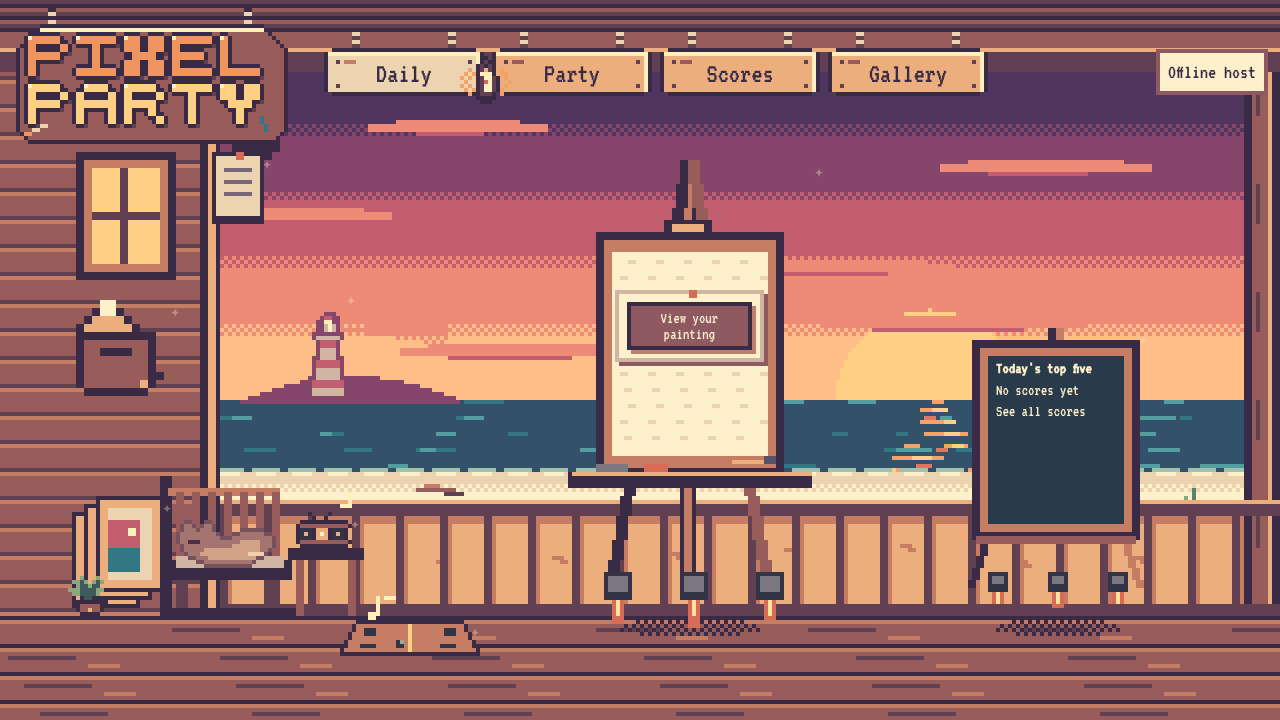
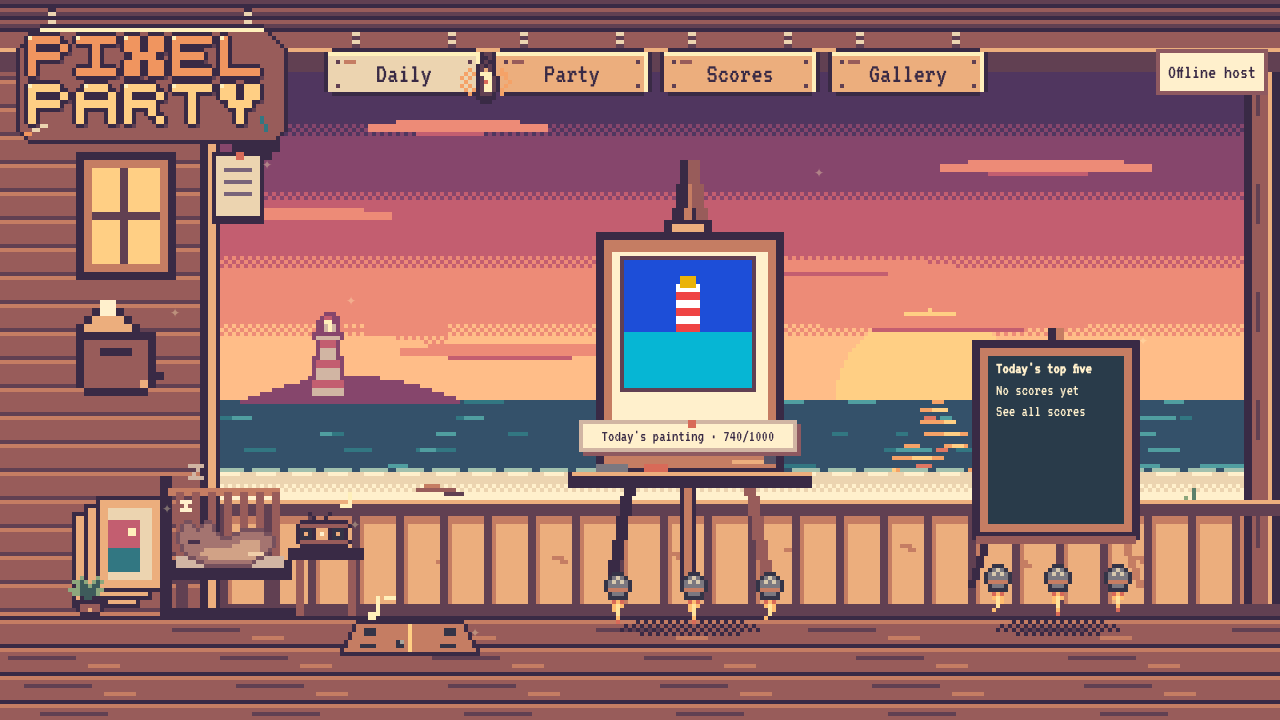
feat(porch): show finished painting on porch easel
Render the player's best-graded 32x32 canvas at pixel scale inside the
porch easel once today's Daily attempt has ended, with a paper tag
showing Today's painting and score, plus offline test coverage.

diff --git a/tests/offline/porch.spec.ts b/tests/offline/porch.spec.ts
@@ -404,6 +404,35 @@ test('capture home 1280', async ({ page }) => {
   await page.screenshot({ path: resolve(dir, 'home-1280x720.png'), fullPage: true })
 })
 
+function samplePaintingBase64() {
+  const cells = new Uint8Array(32 * 32)
+  for (let y = 0; y < 18; y++) for (let x = 0; x < 32; x++) cells[y * 32 + x] = 11
+  for (let y = 18; y < 32; y++) for (let x = 0; x < 32; x++) cells[y * 32 + x] = 9
+  for (let y = 6; y < 18; y++) for (let x = 13; x < 19; x++) cells[y * 32 + x] = y % 4 < 2 ? 4 : 16
+  for (let y = 4; y < 7; y++) for (let x = 14; x < 18; x++) cells[y * 32 + x] = 6
+  return Buffer.from(cells).toString('base64')
+}
+
+test('ended porch easel shows the player painting and score tag, and opens result view', async ({ page }) => {
+  await page.setViewportSize({ width: 1440, height: 900 })
+  await page.emulateMedia({ reducedMotion: 'reduce' })
+  await setup(page)
+  const cells = samplePaintingBase64()
+  await page.route('**/api/daily/me', route => route.fulfill({ json: { day: '2026-11-17', status: 'ended', prompt: 'A lighthouse', startedAt: Date.now() - 600_000, endsAt: Date.now(), autoUsed: 0, asksUsed: 0, asksLeft: 3, finalUsed: true, best: 740, windows: [], nextAutoAt: null, serverNow: Date.now(), lastCells: cells } }))
+  await page.goto(`${origin}/home`)
+  await expect(page.getByTestId('daily-ended')).toBeVisible()
+  await expect(page.getByTestId('porch-easel-tag')).toHaveText("Today's painting · 740/1000")
+  const centerPixel = await page.locator('.pixel-scene__canvas').evaluate((el) => {
+    const ctx = (el as HTMLCanvasElement).getContext('2d')!
+    // Easel at (138, 40), painting at (138 + 18, 40 + 25) = (156, 65), lighthouse tower at (15, 10) -> (171, 75)
+    return Array.from(ctx.getImageData(138 + 18 + 15, 40 + 25 + 10, 1, 1).data)
+  })
+  // Color 4 (#ef4444 = 239,68,68) or 16 (#ffffff = 255,255,255)
+  expect([[239, 68, 68, 255], [255, 255, 255, 255]]).toContainEqual(centerPixel)
+  await page.getByRole('button', { name: 'View result' }).click()
+  await expect(page.getByTestId('pixel-canvas')).toBeVisible()
+})
+
 for (const viewport of [{ width: 1440, height: 900 }, { width: 1280, height: 720 }, { width: 375, height: 812 }]) {
   for (const state of ['landing', 'signed-out', 'not-started', 'ended'] as const) {
     test(`capture porch ${state} ${viewport.width}`, async ({ page }) => {
@@ -411,7 +440,7 @@ for (const viewport of [{ width: 1440, height: 900 }, { width: 1280, height: 720
       await page.setViewportSize(viewport)
       await page.emulateMedia({ reducedMotion: 'reduce' })
       await setup(page, state === 'signed-out')
-      if (state === 'ended') await page.route('**/api/daily/me', route => route.fulfill({ json: { day: '2026-11-17', status: 'ended', autoUsed: 0, asksUsed: 0, asksLeft: 3, finalUsed: true, best: 740, windows: [], nextAutoAt: null, serverNow: Date.now() } }))
+      if (state === 'ended') await page.route('**/api/daily/me', route => route.fulfill({ json: { day: '2026-11-17', status: 'ended', autoUsed: 0, asksUsed: 0, asksLeft: 3, finalUsed: true, best: 740, windows: [], nextAutoAt: null, serverNow: Date.now(), lastCells: samplePaintingBase64() } }))
       await page.goto(`${origin}${state === 'landing' ? '/' : '/home'}`)
       await expect(page.locator('.pixel-scene__canvas')).toBeVisible()
       if (state === 'not-started') await expect(page.getByTestId('daily-start-button')).toBeVisible()

diff --git a/src/components/porch/PorchScene.tsx b/src/components/porch/PorchScene.tsx
@@ -23,6 +23,7 @@ export interface PorchSceneProps {
   onToggleMute: () => void
   easelTestId?: string
   easelDisabled?: boolean
+  easelCells?: Uint8Array
   landing?: boolean
   easelText?: ReactNode
   children?: ReactNode
@@ -33,7 +34,7 @@ function Objects({ moreOpen, setMoreOpen, onParty, ...props }: PorchSceneProps &
   const rect = porchLayout[composition]
   const [rulesOpen, setRulesOpen] = useState(false)
   return <>
-    <Hotspot rect={rect.easel} label={props.easelLabel} href={props.landing ? '/home' : undefined} onClick={props.landing ? undefined : props.onEasel} testId={props.easelTestId} disabled={props.easelDisabled}><span className="porch-easel-copy">{props.easelText}</span></Hotspot>
+    <Hotspot rect={rect.easel} label={props.easelLabel} href={props.landing ? '/home' : undefined} onClick={props.landing ? undefined : props.onEasel} testId={props.easelTestId} disabled={props.easelDisabled}><span className={props.easelState === 'finished' ? 'porch-easel-copy porch-easel-copy--tag' : 'porch-easel-copy'}>{props.easelText}</span></Hotspot>
     <Hotspot rect={rect.chalkboard} label="Today's scores" href="/scores" />
     <div className="porch-scores" style={rectToPercent(rect.chalkboard, composition)}><strong>Today's top {composition === 'portrait' ? 'three' : 'five'}</strong>{props.topThree.length ? props.topThree.slice(0, composition === 'portrait' ? 3 : 5).map((score, index) => <div className="porch-score-row" key={index}><span>{index + 1}. {score.name}</span><span>{score.score}</span></div>) : <div>No scores yet</div>}{composition === 'landscape' && <div className="porch-score-more">See all scores</div>}</div>
     <Hotspot rect={rect.hatch} label="Party studio" href="/party" onClick={onParty} testId={props.landing ? 'landing-browse-lobby' : undefined} />
@@ -86,8 +87,8 @@ export function PorchScene(props: PorchSceneProps) {
     const width = root.current?.clientWidth ?? window.innerWidth
     const scale = Math.max(2, Math.ceil(Math.max(width / ctx.canvas.width, height / ctx.canvas.height)))
     const roofTop = Math.max(0, Math.floor((ctx.canvas.height - height / scale) / 2))
-    drawPorch(ctx, frame, { easelState: props.easelState, bob: true, soundOn: !props.muted, signedIn: props.signedIn, roofTop })
-  }, [props.easelState, props.muted, props.signedIn])
+    drawPorch(ctx, frame, { easelState: props.easelState, bob: true, soundOn: !props.muted, signedIn: props.signedIn, roofTop, easelCells: props.easelCells })
+  }, [props.easelState, props.muted, props.signedIn, props.easelCells])
   return <div ref={root} className={props.landing ? 'porch-world porch-world--landing' : 'porch-world'}>
     <PixelScene draw={draw} className="porch-world__scene" camera={{ x: 0, y: panning ? -(root.current?.clientHeight ?? 0) : 0, zoom: 1 }} zoomMs={500} syncScale><Objects {...props} moreOpen={moreOpen} setMoreOpen={setMoreOpen} onParty={onParty} /></PixelScene>
     <nav className="porch-dock" aria-label="Porch shortcuts">

diff --git a/src/scene/porch/drawPorch.ts b/src/scene/porch/drawPorch.ts
@@ -1,3 +1,4 @@
+import { EMPTY_CANVAS, PALETTE } from '../../game/config'
 import { P } from '../palette'
 import { drawSea, drawSun, drawSunsetSky, mulberry32 } from '../procedural'
 import { drawSprite } from '../sprite'
@@ -13,6 +14,7 @@ export interface PorchOptions {
   roofTop?: number
   hideEasel?: boolean
   backgroundOnly?: boolean
+  easelCells?: Uint8Array
 }
 
 export function drawPorchRoof(ctx: CanvasRenderingContext2D, roofTop: number): void {
@@ -212,7 +214,18 @@ export function drawPorch(ctx: CanvasRenderingContext2D, frame: number, opts: Po
     rect(ex + 32 - spread, ey + y, 3, 1, P.wood[0]); rect(ex + 34 + spread, ey + y, 3, 1, P.wood[2])
   }
   rect(ex + 11, ey + 18, 47, 61, P.wood[0]); rect(ex + 13, ey + 20, 43, 57, P.wood[3]); rect(ex + 15, ey + 23, 39, 51, opts.easelState === 'draped' ? P.paper[2] : P.paper[4])
-  for (let y = ey + 25; y < ey + 73; y += 4) for (let x = ex + 17 + (y % 3); x < ex + 53; x += 7) rect(x, y, 2, 1, P.paper[3])
+  if (opts.easelState === 'finished' && opts.easelCells && opts.easelCells.length >= 1024) {
+    rect(ex + 17, ey + 24, 34, 34, P.wood[1])
+    for (let py = 0; py < 32; py++) {
+      for (let px = 0; px < 32; px++) {
+        const c = opts.easelCells[py * 32 + px] ?? 0
+        ctx.fillStyle = c === 0 ? EMPTY_CANVAS[(px + py) % 2] : (PALETTE[c] ?? EMPTY_CANVAS[(px + py) % 2])
+        ctx.fillRect(ex + 18 + px, ey + 25 + py, 1, 1)
+      }
+    }
+  } else {
+    for (let y = ey + 25; y < ey + 73; y += 4) for (let x = ex + 17 + (y % 3); x < ex + 53; x += 7) rect(x, y, 2, 1, P.paper[3])
+  }
   rect(ex + 28, ey + 15, 12, 5, P.wood[0]); rect(ex + 30, ey + 16, 8, 2, P.wood[4])
   rect(ex + 4, ey + 78, 61, 4, P.wood[0]); rect(ex + 5, ey + 78, 60, 1, P.wood[4])
   rect(ex + 11, ey + 76, 8, 2, P.stone[2]); rect(ex + 23, ey + 76, 6, 2, P.flame[1]); rect(ex + 45, ey + 75, 9, 1, P.wood[4]); rect(ex + 53, ey + 74, 3, 2, P.stone[1])

diff --git a/src/pages/(app)/home.tsx b/src/pages/(app)/home.tsx
@@ -346,7 +346,8 @@ export default function DailyHomePage() {
       <section className="porch-home__scene" data-testid={signedOut ? 'daily-signed-out' : ended ? 'daily-ended' : 'daily-not-started'}>
         <PorchScene easelState={signedOut ? 'signin' : ended ? 'finished' : 'cover'} easelLabel={signedOut ? 'Sign in to paint' : ended ? 'View result' : showPorch ? 'Resume painting' : 'Start Daily Challenge'}
           easelTestId={signedOut ? 'daily-sign-in-button' : ended ? undefined : 'daily-start-button'} easelDisabled={starting}
-          easelText={signedOut ? <span className="porch-easel-action">Sign in to paint</span> : ended ? <span className="porch-easel-action">View your painting</span> : <><strong>Today’s prompt</strong><span>10 minutes · your best grade counts</span><span className="porch-easel-action">{showPorch ? 'Resume painting' : 'Start painting'}</span></>}
+          easelCells={ended ? endedCells : undefined}
+          easelText={signedOut ? <span className="porch-easel-action">Sign in to paint</span> : ended ? <span className="porch-easel-tag" data-testid="porch-easel-tag">Today&apos;s painting · {endedBestScore}/1000</span> : <><strong>Today’s prompt</strong><span>10 minutes · your best grade counts</span><span className="porch-easel-action">{showPorch ? 'Resume painting' : 'Start painting'}</span></>}
           signedIn={!!isSignedIn} galleryHref={`/u/${encodeURIComponent(userId)}`} topThree={topThree} muted={muted}
           onEasel={() => { if (signedOut) setShowAuthModal(true); else if (ended) setResultDay(state.day); else void handleStart() }}
           onAccount={() => { if (signedOut) setShowAuthModal(true); else setShowAccount(true) }} onToggleMute={toggleMute}>

diff --git a/src/components/porch/porch.css b/src/components/porch/porch.css
@@ -5,6 +5,7 @@
 .porch-loading { position: absolute; left: 50%; top: 50%; transform: translate(-50%, -50%); padding: 16px; }
 .porch-error { position: absolute; left: 50%; bottom: 8%; transform: translateX(-50%); padding: calc(var(--px) * 3); }
 .porch-easel-copy { position: absolute; left: 23%; top: 28%; width: 55%; display: grid; gap: var(--px); padding: calc(var(--px) * 2); color: #392a45; background: #fff0cc; border: var(--px) solid #d1b5a3; box-shadow: var(--px) var(--px) #8e5960; font-size: calc(var(--px) * 4); line-height: 1; white-space: normal; text-align: center; }
+.porch-easel-copy--tag { left: 10%; top: 56%; width: 80%; padding: var(--px) calc(var(--px) * 1.5); }
 .porch-easel-copy::before { content: ''; width: calc(var(--px) * 2); height: calc(var(--px) * 2); position: absolute; top: calc(var(--px) * -1); left: 50%; background: #d86a58; }
 .porch-easel-action { display: block; padding: var(--px); background: #8e5960; color: #fff0cc; border: var(--px) solid #392a45; box-shadow: var(--px) var(--px) #bc806e; }
 .porch-scores { position: absolute; pointer-events: none; padding: calc(var(--px) * 8); color: #fff0cc; font-size: calc(var(--px) * 4); line-height: 1.1; overflow: hidden; animation: porch-board-bob 3.33s steps(1) infinite; }

diff --git a/src/scene/porch/drawPorch.test.ts b/src/scene/porch/drawPorch.test.ts
@@ -7,10 +7,10 @@ function captureRects(frame: number) {
   const ctx = {
     fillStyle: '',
     fillRect(x: number, y: number, w: number, h: number) {
-      rects.push({ x, y, w, h, fillStyle: this.fillStyle })
+      rects.push({ x, y, w, h, fillStyle: ctx.fillStyle })
     },
-  } as unknown as CanvasRenderingContext2D
-  drawCatSleepZs(ctx, 45, 130, frame)
+  }
+  drawCatSleepZs(ctx as unknown as CanvasRenderingContext2D, 45, 130, frame)
   return rects
 }
 
